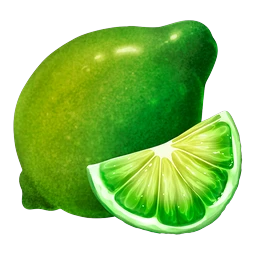
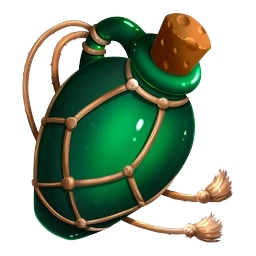
Round 17: Ice Queen frost potions, Bamboo Panda herbal lows
Claude-Session: https://claude.ai/code/session_01LcC21fng844zb5K8BRYuAt

diff --git a/LuckyVault/public/sw.js b/LuckyVault/public/sw.js
@@ -1,5 +1,5 @@
 // Offline cache for the game client (API calls always go to the network).
-const V = 'lv-v72';
+const V = 'lv-v73';
 const FILES = ['./', './index.html', './config.js', './manifest.webmanifest', './js/slots-engine.js', './js/catalog.js', './js/tables-engine.js', './js/tables-ui.js', './js/social.js', './js/fx.js', './js/feat-ui.js', './js/hov-ui.js', './js/roadmap.js', './js/vegas.js', './js/rules.js', './js/onboard.js', './js/friends-ui.js', './js/rg.js', './js/support-ui.js', './js/replay.js', './js/fx2.js', './js/i18n.js', './js/iap.js', './assets/fonts/Anton.woff2', './assets/fonts/Cinzel.woff2', './icons/icon-192.png', './icons/icon-512.png'];
 self.addEventListener('install', e => { e.waitUntil(caches.open(V).then(c => c.addAll(FILES)).then(() => self.skipWaiting())); });
 self.addEventListener('activate', e => { e.waitUntil(caches.keys().then(ks => Promise.all(ks.filter(k => k !== V).map(k => caches.delete(k)))).then(() => self.clients.claim())); });

diff --git a/LuckyVault/tools/build_skins.py b/LuckyVault/tools/build_skins.py
@@ -291,3 +291,4 @@ json.dump(man, open(OUT + '/manifest.json', 'w'), indent=1, ensure_ascii=False)
 #  hot-chilli-7s 20 chilli,6 pepper,7 tomato,11 mango,14 papaya,30 cherries,8 pumpkin | gold-bar-7s viking 3 ingot (gold colourised),29,27,18,45,35,32
 #  lucky-clover-7s loot 9 clover,43,17,50,4,24,9 | neon-retro-7s 19,39,31,46,44,10,2 | liberty-bells 15,30,38,16,12,39,26 | fortune-wheel-deluxe 21,35,13,11,8,45,29
 # round 16: dragon-empire-4096 <- dragon loot 3,32,31,36,34,28,43,49,12,W47,S45 ; neon-nights <- gems 20,3,92,78,81,82,61,76,26,W64,S30 (both were 11/11 identical to golden-dragon / star-gems)
+# round 17: ice-queen <- rpg-elixir-icons 50,17,21,35,10,19,25,6,47,W37,S13 (frost potions) ; bamboo-panda lows <- elixir 12 wine gourd,20,22,11,9 (herbal tonics)

diff --git a/LuckyVault/CHANGELOG.md b/LuckyVault/CHANGELOG.md
@@ -377,3 +377,6 @@ Platform release: everything on the "do all of these" list except the public dep
 
 ## Round 16 (18:25) — Dragon Empire 4096 & Neon Nights own sets
 - Both were 11/11 identical to Golden Dragon / Star Gems. New painted symbol sets + covers. sw lv-v72. Tests 90/90.
+
+## Round 17 (18:25) — Ice Queen frost-potion set, Bamboo Panda herbal lows
+- Ice Queen was sharing Frozen Kingdom's jewels (9/11); now a frost-potion set from CraftPix RPG elixir icons + new cover. Bamboo Panda's low symbols became herbal tonics (wine gourd etc.) so it no longer mirrors Lucky Panda Link. sw lv-v73. Tests 90/90.
